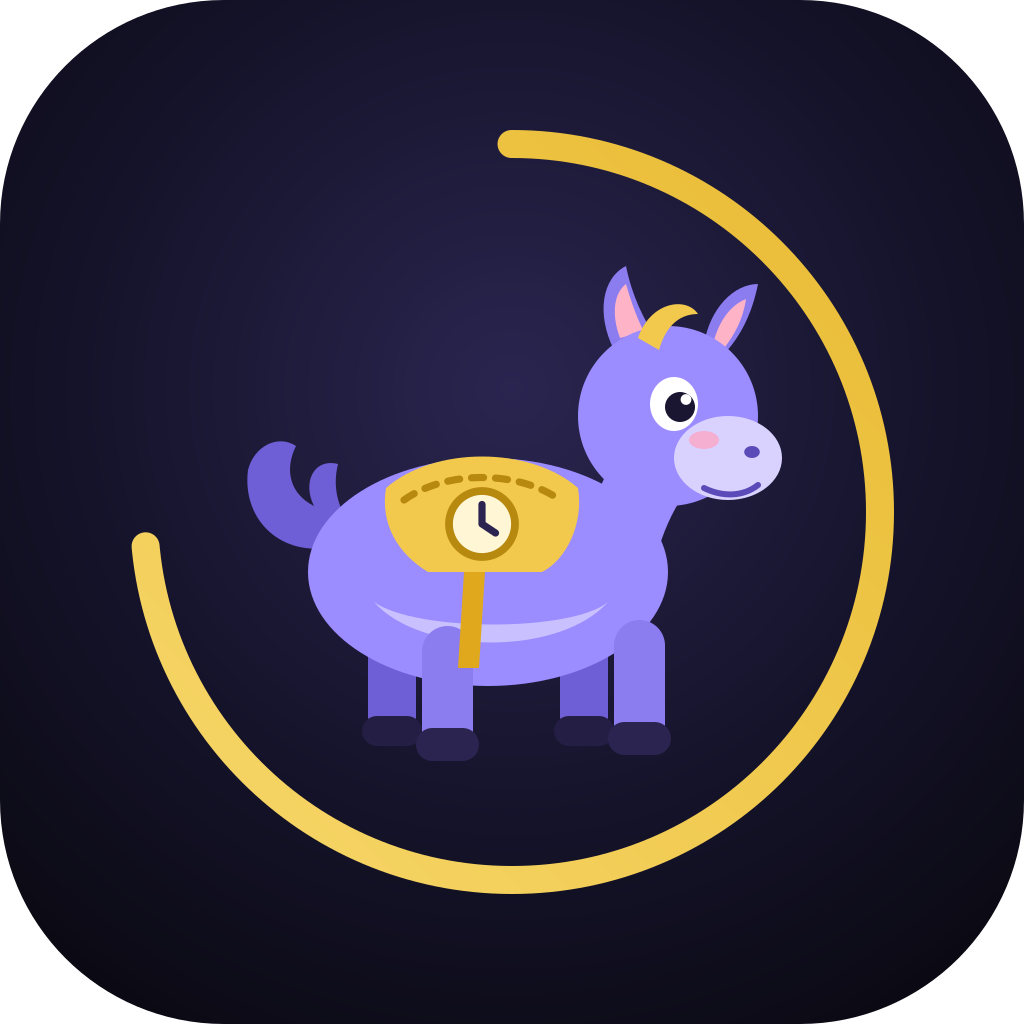
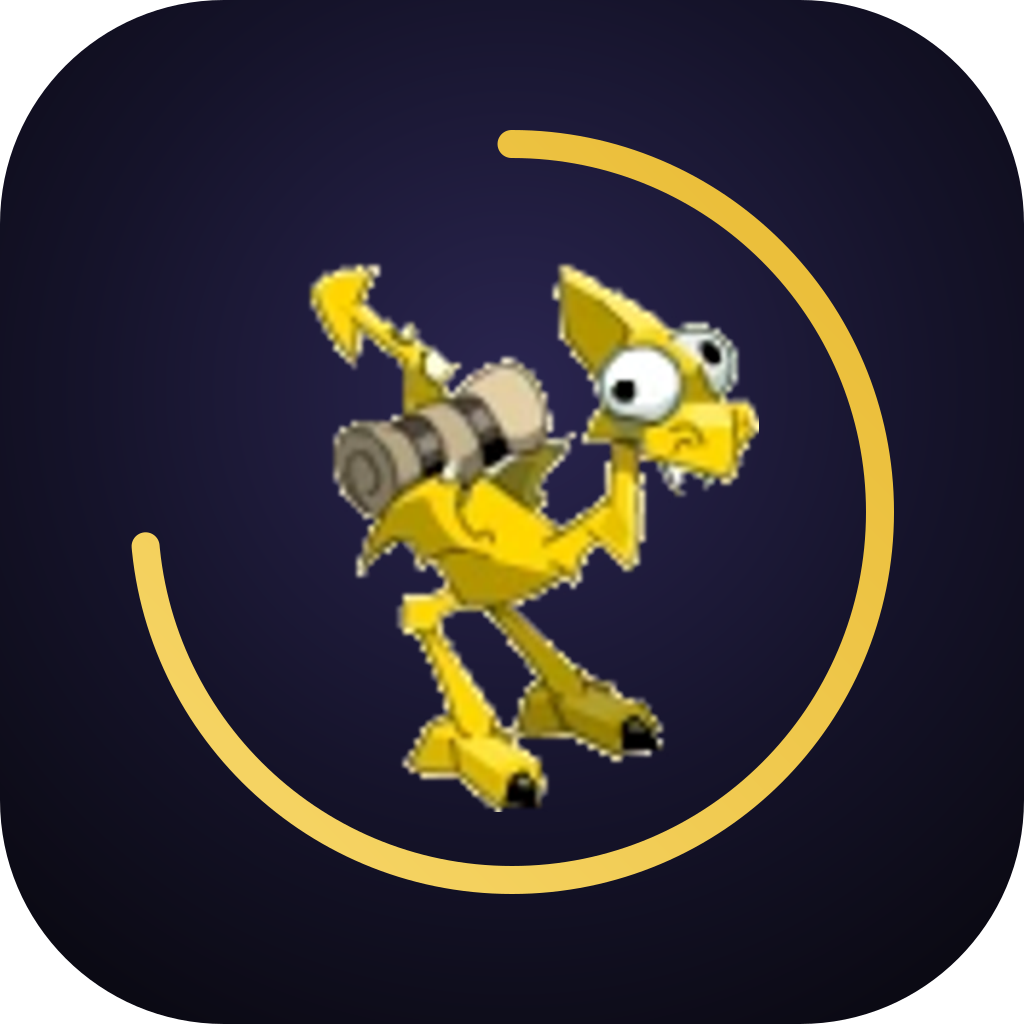
Dragodindes officielles à la place de la mascotte
Les 7 rendus du jeu (Amande, Rousse, Dorée, Indigo, Pourpre, Orchidée, Ébène ; © Ankama Games,
projet non lucratif) sont détourés et agrandis ×3 dans assets/dragodindes/ : une robe par enclos
pour les avatars, la Dorée sur l'accueil et dans l'icône (anneau doré conservé). Mention des
droits d'Ankama dans les réglages et sur le site.

Changed region(s): [[0.2188, 0.25, 0.7812, 0.8125]]

diff --git a/src/components/Dragodinde.tsx b/src/components/Dragodinde.tsx
@@ -1,0 +1,78 @@
+// Dragodindes officielles de DOFUS (rendus du jeu, © Ankama Games, utilisés dans ce projet non
+// lucratif) : une robe par enclos, en avatar dans un disque teinté ou en illustration.
+// Images détourées (fond uni retiré) et agrandies ×3 dans assets/dragodindes/.
+
+import { Image, ImageSourcePropType, StyleSheet, View } from 'react-native';
+import Svg, { Circle, Defs, RadialGradient, Stop } from 'react-native-svg';
+
+import { s } from '../echelle';
+
+export interface Robe {
+  nom: string;
+  image: ImageSourcePropType;
+  /** Teinte du disque d'avatar. */
+  couleur: string;
+}
+
+export const ROBES: Robe[] = [
+  { nom: 'Amande', image: require('../../assets/dragodindes/amande.png'), couleur: '#e8dcc0' },
+  { nom: 'Rousse', image: require('../../assets/dragodindes/rousse.png'), couleur: '#f08a2c' },
+  { nom: 'Dorée', image: require('../../assets/dragodindes/doree.png'), couleur: '#f2cf3a' },
+  { nom: 'Indigo', image: require('../../assets/dragodindes/indigo.png'), couleur: '#6a3fc8' },
+  { nom: 'Pourpre', image: require('../../assets/dragodindes/pourpre.png'), couleur: '#d8344a' },
+  { nom: 'Orchidée', image: require('../../assets/dragodindes/orchidee.png'), couleur: '#d64fe0' },
+  { nom: 'Ébène', image: require('../../assets/dragodindes/ebene.png'), couleur: '#6b5a52' },
+];
+
+export function robe(index: number): Robe {
+  return ROBES[((index % ROBES.length) + ROBES.length) % ROBES.length];
+}
+
+// Proportions des rendus (≈ 84 × 98).
+const RATIO = 84 / 98;
+
+export default function Dragodinde({
+  taille = s(64),
+  index = 0,
+  fond = true,
+}: {
+  taille?: number;
+  index?: number;
+  /** Avatar : la dragodinde dans un disque teinté de sa robe. Sans fond : l'illustration seule. */
+  fond?: boolean;
+}) {
+  const r = robe(index);
+  if (!fond) {
+    return (
+      <Image
+        source={r.image}
+        style={{ width: taille * RATIO, height: taille }}
+        resizeMode="contain"
+        accessibilityLabel={`Dragodinde ${r.nom}`}
+      />
+    );
+  }
+  const id = `disque-${index}`;
+  const hauteur = taille * 0.86;
+  return (
+    <View style={{ width: taille, height: taille }} accessibilityLabel={`Dragodinde ${r.nom}`}>
+      <Svg width={taille} height={taille} viewBox="0 0 100 100" style={StyleSheet.absoluteFill}>
+        <Defs>
+          <RadialGradient id={id} cx="50%" cy="40%" r="62%">
+            <Stop offset="0" stopColor={r.couleur} stopOpacity={0.42} />
+            <Stop offset="0.7" stopColor={r.couleur} stopOpacity={0.12} />
+            <Stop offset="1" stopColor="#05070a" stopOpacity={0.9} />
+          </RadialGradient>
+        </Defs>
+        <Circle cx={50} cy={50} r={49.5} fill={`url(#${id})`} stroke="rgba(255,255,255,0.1)" strokeWidth={1} />
+      </Svg>
+      <View style={[StyleSheet.absoluteFill, styles.centre, { borderRadius: taille / 2 }]}>
+        <Image source={r.image} style={{ width: hauteur * RATIO, height: hauteur, marginTop: taille * 0.04 }} resizeMode="contain" />
+      </View>
+    </View>
+  );
+}
+
+const styles = StyleSheet.create({
+  centre: { alignItems: 'center', justifyContent: 'center', overflow: 'hidden' },
+});

diff --git a/src/components/Compact.tsx b/src/components/Compact.tsx
@@ -11,7 +11,7 @@ import { ContexteCalcul, niveauLot } from '../engine/parcours';
 import { VueEnclos } from '../engine/statut';
 import { couleurs, rayon } from '../theme';
 import { CARACTERISTIQUES, Enclos, EtapeValidee, Etape, EtatLot, INFO_SUIVI } from '../types/domain';
-import Mascotte from './Mascotte';
+import Dragodinde from './Dragodinde';
 import { s } from '../echelle';
 
 /** Minutes restantes très courtes pour une puce d'onglet : « 0:23 », « 2h », « 1j ». */
@@ -87,7 +87,7 @@ export function BarreEnclos({
   );
 }
 
-/** Portrait de la mascotte de l'enclos, cerclé de l'avancement de son parcours. */
+/** Portrait de la dragodinde de l'enclos, cerclé de l'avancement de son parcours. */
 export function AvatarAnneau({
   index,
   avancement,
@@ -123,7 +123,7 @@ export function AvatarAnneau({
         )}
       </Svg>
       <View style={{ width: interieur, height: interieur, borderRadius: interieur / 2, overflow: 'hidden' }}>
-        <Mascotte taille={interieur} index={index} />
+        <Dragodinde taille={interieur} index={index} />
       </View>
     </View>
   );

diff --git a/src/app/objectifs/[id].tsx b/src/app/objectifs/[id].tsx
@@ -4,7 +4,7 @@ import { Redirect, router, useLocalSearchParams } from 'expo-router';
 import { useEffect, useMemo, useState } from 'react';
 import { Animated, StyleSheet, Text, View } from 'react-native';
 
-import Mascotte from '../../components/Mascotte';
+import Dragodinde from '../../components/Dragodinde';
 import { PopupDepart } from '../../components/FormulaireDepart';
 import { BoutonContour, BoutonPrincipal, Carte, Ecran } from '../../components/ui';
 import { CARACTERISTIQUE_MAX } from '../../data/constants';
@@ -76,7 +76,7 @@ export default function Objectifs() {
             { transform: [{ scale: apparition.interpolate({ inputRange: [0, 1], outputRange: [0.7, 1] }) }] },
           ]}
         >
-          <Mascotte taille={s(150)} index={Math.max(0, index)} />
+          <Dragodinde taille={s(150)} index={Math.max(0, index)} />
         </Animated.View>
       </View>
       <Text style={styles.titre}>Objectifs atteints !</Text>

diff --git a/src/app/bienvenue.tsx b/src/app/bienvenue.tsx
@@ -1,7 +1,7 @@
 import { router } from 'expo-router';
 import { StyleSheet, Text, View } from 'react-native';
 
-import Mascotte from '../components/Mascotte';
+import Dragodinde from '../components/Dragodinde';
 import { BoutonPrincipal, Carte, Ecran, Pastille } from '../components/ui';
 import { couleurs, esp } from '../theme';
 import { s } from '../echelle';
@@ -17,7 +17,7 @@ export default function Bienvenue() {
     <Ecran basDePage={<BoutonPrincipal label="Commencer" icone="arrow-right" onPress={() => router.push('/configuration')} />}>
       <View style={styles.hero}>
         <View style={styles.halo}>
-          <Mascotte taille={s(132)} index={0} />
+          <Dragodinde taille={s(132)} index={2} />
         </View>
         <Text style={styles.titre}>Monture Minute</Text>
         <Text style={styles.sousTitre}>Ton assistant de cycles</Text>

diff --git a/src/app/reglages.tsx b/src/app/reglages.tsx
@@ -112,6 +112,10 @@ export default function Reglages() {
           sousTitre="kihw.github.io/monture-minute"
           onPress={() => Linking.openURL('https://kihw.github.io/monture-minute/')}
         />
+        <Text style={styles.note}>
+          Projet de fan non lucratif, non affilié à Ankama. DOFUS et les images de dragodindes sont la propriété
+          d’Ankama Games.
+        </Text>
       </Carte>
 
       <Carte style={styles.groupe}>

diff --git a/site/index.html b/site/index.html
@@ -142,7 +142,7 @@
 </main>
 
 <footer>
-  <p>Monture Minute est un projet de fan, non affilié à Ankama. DOFUS est une marque d’Ankama Games.</p>
+  <p>Monture Minute est un projet de fan, non affilié à Ankama. DOFUS et les images de dragodindes sont la propriété d’Ankama Games.</p>
   <p><a href="https://github.com/kihw/monture-minute">Code source sur GitHub</a> · licence MIT</p>
 </footer>
 
